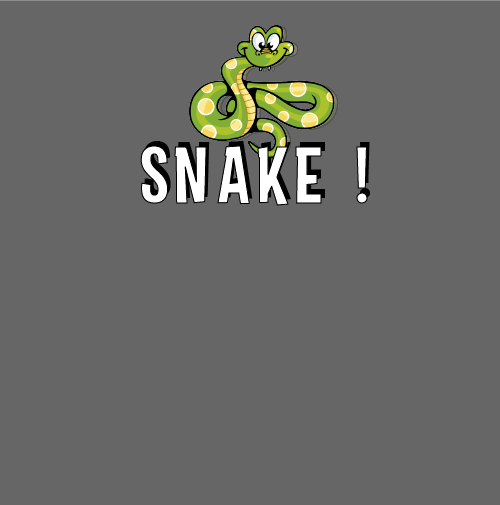
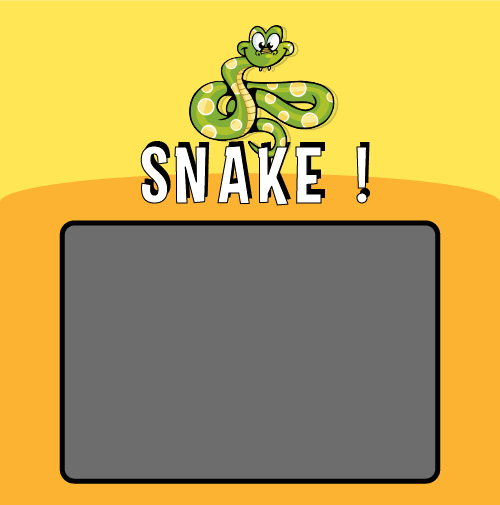
Penambahan fitur highscore 2 mode, debug 2 mode, dan perubahan UI menu

diff --git a/src/id/ac/its/KED/snakegame/Board.java b/src/id/ac/its/KED/snakegame/Board.java
@@ -49,6 +49,8 @@ public class Board extends JPanel implements ActionListener {
     private final int y[] = new int[ALL_DOTS];
     private final int obsX[] = new int[20];
     private final int obsY[] = new int[20];
+    private final int obsXP[] = new int[182];
+    private final int obsYP[] = new int[182];
 
     private int dots;
     private int apple_x;
@@ -79,6 +81,9 @@ public class Board extends JPanel implements ActionListener {
 
     private Menu menu;
 
+    private NormalHs normalhs;
+    private TimeHs timehs;
+    
     public Board() {
 
         initBoard();
@@ -98,6 +103,9 @@ public class Board extends JPanel implements ActionListener {
 
         menu = new Menu();
 
+        normalhs = new NormalHs();
+        timehs = new TimeHs();
+        
         initGame();
     }
 
@@ -154,9 +162,33 @@ public class Board extends JPanel implements ActionListener {
                 y[z] = 80;
             }
 
-            for (int i = 0; i < 20; i++) {
-                obsX[i] = 0;
-                obsY[i] = 0;
+            if (typeG == 1)
+            {
+            	for (int i = 0; i < 20; i++) {
+                    obsX[i] = 0;
+                    obsY[i] = 0;
+                }
+            }
+            else if (typeG == 2)
+            {
+            	obsXP[0] = 0;
+                obsYP[0] = 70;
+            	for (int i = 1; i < 43; i++) {
+                    obsXP[i] = 0;
+                    obsYP[i] = obsYP[i - 1] + 10;
+                }
+            	for (int i = 43; i < 92; i++) {
+                    obsXP[i] = obsXP[i - 1] + 10;
+                    obsYP[i] = 70;
+                }
+            	for (int i = 92; i < 134; i++) {
+                    obsXP[i] = obsXP[i - 1];
+                    obsYP[i] = obsYP[i - 1] + 10;
+                }
+            	for (int i = 134; i < 182; i++) {
+                    obsXP[i] = obsXP[i - 1] - 10;
+                    obsYP[i] = obsYP[i - 1];
+                }
             }
 
             locateApple();
@@ -234,7 +266,10 @@ public class Board extends JPanel implements ActionListener {
                     }
 
                     // --> Bagian untuk syntax obstacles
-
+                    for (int a = 0; a < 182; a++) {
+                        g.drawImage(obstacle, obsXP[a], obsYP[a], this);
+                    }
+                    
                     for (int z = 0; z < dots; z++) {
                         if (z == 0) {
 
@@ -250,7 +285,11 @@ public class Board extends JPanel implements ActionListener {
 
             } else {
 
+            	timer.stop();					// Matikan Game Loop
                 gameOver(g);
+                     
+//                System.out.print(inGame);
+//                System.out.print(inMenu);
             }
         }
     }
@@ -289,25 +328,26 @@ public class Board extends JPanel implements ActionListener {
 
         g.setFont(smallFont);
         g.setColor(new Color(96, 128, 255));
-        ts = "Time: " + timeCounter.reslt();
+        ts = "Time: " + timeCounter.result();
         g.drawString(ts, SCREEN_SIZE / 5 + 180, SCREEN_SIZE / 10);
     }
 
     private void gameOver(final Graphics g) { // Game Over UI
 
+    	final Font small = new Font("Helvetica", Font.BOLD, 20);
+    	final FontMetrics metr = getFontMetrics(small);
+    	g.setColor(Color.white);
+        g.setFont(small);
+    	
+    	final String retry = "Press Spacebar to retry";
+    	
         if (typeG == 1) {
 
             final String msg = "Game Over !";
             final String msg1 = "Score : " + score;
-            final String msg2 = "Press Spacebar to retry";
-            final Font small = new Font("Helvetica", Font.BOLD, 20);
-            final FontMetrics metr = getFontMetrics(small);
-
-            g.setColor(Color.white);
-            g.setFont(small);
+            
             g.drawString(msg, (B_WIDTH - metr.stringWidth(msg)) / 2, B_HEIGHT / 2 - 40);
-            g.drawString(msg2, (B_WIDTH - metr.stringWidth(msg)) / 2 - 50, (B_HEIGHT / 2) + 60);
-
+              
             if (score < 10) {
 
                 g.drawString(msg1, (B_WIDTH - metr.stringWidth(msg1)) / 2, B_HEIGHT / 2);
@@ -318,19 +358,19 @@ public class Board extends JPanel implements ActionListener {
 
                 g.drawString(msg1, (B_WIDTH - metr.stringWidth(msg1)) / 2 - 10, B_HEIGHT / 2);
             }
+            
+            g.drawString(retry, (B_WIDTH - metr.stringWidth(retry)) / 2 , (B_HEIGHT / 2) + 50);
+            
+            normalhs.render(g);
         }
 
         else if (typeG == 2) {
 
             final String msg = "Game Over !";
-            final String msg1 = "Score : " + score + "    Time: " + timeCounter.reslt();
-            final Font small = new Font("Helvetica", Font.BOLD, 20);
-            final FontMetrics metr = getFontMetrics(small);
+            final String msg1 = "Score : " + score + "    Time: " + timeCounter.result();
 
-            g.setColor(Color.white);
-            g.setFont(small);
             g.drawString(msg, (B_WIDTH - metr.stringWidth(msg)) / 2, B_HEIGHT / 2);
-
+            
             if (score < 10) {
 
                 g.drawString(msg1, (B_WIDTH - metr.stringWidth(msg1)) / 2, B_HEIGHT / 2 + 40);
@@ -341,8 +381,11 @@ public class Board extends JPanel implements ActionListener {
 
                 g.drawString(msg1, (B_WIDTH - metr.stringWidth(msg1)) / 2 - 10, B_HEIGHT / 2 + 40);
             }
+            
+            g.drawString(retry, (B_WIDTH - metr.stringWidth(retry)) / 2 , (B_HEIGHT / 2) + 90);
+            
+            timehs.render(g);
         }
-
     }
 
     private void move() {
@@ -408,6 +451,26 @@ public class Board extends JPanel implements ActionListener {
 
                     onFire = false;
                 }
+                
+                if (score >= 1) {
+                    for (int i = 0; i < 20; i++) {
+                        locateObstacle();
+                        obsX[i] = obs_x;
+                        obsY[i] = obs_y;
+
+                        if (obsX[i] <= x[0] + 10 && obsX[i] >= x[0] - 10 && obsY[i] <= y[0] + 10 && obsY[i] >= y[0] - 10) {
+                            locateObstacle();
+                            obsX[i] = obs_x;
+                            obsY[i] = obs_y;
+                        }
+
+                        if (obsX[i] == apple_x && obsY[i] == apple_y) {
+                            locateObstacle();
+                            obsX[i] = obs_x;
+                            obsY[i] = obs_y;
+                        }
+                    }
+                }
             }
 
             else if (typeG == 2) {
@@ -424,37 +487,29 @@ public class Board extends JPanel implements ActionListener {
                     onFire = false;
                 }
             }
-
-            if (score >= 1) {
-                for (int i = 0; i < 20; i++) {
-                    locateObstacle();
-                    obsX[i] = obs_x;
-                    obsY[i] = obs_y;
-
-                    if (obsX[i] <= x[0] + 10 && obsX[i] >= x[0] - 10 && obsY[i] <= y[0] + 10 && obsY[i] >= y[0] - 10) {
-                        locateObstacle();
-                        obsX[i] = obs_x;
-                        obsY[i] = obs_y;
-                    }
-
-                    if (obsX[i] == apple_x && obsY[i] == apple_y) {
-                        locateObstacle();
-                        obsX[i] = obs_x;
-                        obsY[i] = obs_y;
-                    }
-                }
-            }
         }
     }
 
     private void checkObstacle() {
 
-        for (int i = 0; i < 20; i++) {
-            if ((x[0] == obsX[i]) && (y[0] == obsY[i])) {
+    	if (typeG == 1)
+    	{
+    		for (int i = 0; i < 20; i++) {
+                if ((x[0] == obsX[i]) && (y[0] == obsY[i])) {
 
-                inGame = false;
+                    inGame = false;
+                }
             }
-        }
+    	}
+    	else if (typeG == 2)
+    	{
+    		for (int i = 0; i < 182; i++) {
+                if ((x[0] == obsXP[i]) && (y[0] == obsYP[i])) {
+
+                    inGame = false;
+                }
+            }
+    	}
 
         if (!inGame) {
             timer.stop();
@@ -535,8 +590,9 @@ public class Board extends JPanel implements ActionListener {
 
                 if ((key == KeyEvent.VK_LEFT || key == KeyEvent.VK_A) && (!rightDirection)) {
 
-                    final ImageIcon iih = new ImageIcon("src/resources/images/lefthead.png");
+                	final ImageIcon iih = new ImageIcon("src/resources/images/lefthead.png");
                     head = iih.getImage();
+                    
                     leftDirection = true;
                     upDirection = false;
                     downDirection = false;
@@ -544,8 +600,9 @@ public class Board extends JPanel implements ActionListener {
 
                 if ((key == KeyEvent.VK_RIGHT || key == KeyEvent.VK_D) && (!leftDirection)) {
                 	
-                    final ImageIcon iih = new ImageIcon("src/resources/images/righthead.png");
+                	final ImageIcon iih = new ImageIcon("src/resources/images/righthead.png");
                     head = iih.getImage();
+                    
                     rightDirection = true;
                     upDirection = false;
                     downDirection = false;
@@ -553,8 +610,9 @@ public class Board extends JPanel implements ActionListener {
 
                 if ((key == KeyEvent.VK_UP || key == KeyEvent.VK_W) && (!downDirection)) {
                 	
-                    final ImageIcon iih = new ImageIcon("src/resources/images/uphead.png");
+                	final ImageIcon iih = new ImageIcon("src/resources/images/uphead.png");
                     head = iih.getImage();
+                    
                     upDirection = true;
                     rightDirection = false;
                     leftDirection = false;
@@ -562,8 +620,9 @@ public class Board extends JPanel implements ActionListener {
 
                 if ((key == KeyEvent.VK_DOWN || key == KeyEvent.VK_S) && (!upDirection)) {
                 	
-                    final ImageIcon iih = new ImageIcon("src/resources/images/downhead.png");
+                	final ImageIcon iih = new ImageIcon("src/resources/images/downhead.png");
                     head = iih.getImage();
+                    
                     downDirection = true;
                     rightDirection = false;
                     leftDirection = false;
@@ -572,10 +631,11 @@ public class Board extends JPanel implements ActionListener {
             else {
 
                 if (key == KeyEvent.VK_SPACE) {
-
+                	
                 	final ImageIcon iih = new ImageIcon("src/resources/images/righthead.png");
                     head = iih.getImage();
-                	inGame = true;
+                    
+                    inGame = true;
                     inMenu = false;
                     onFire = false;
                     upDirection = false;
@@ -598,11 +658,12 @@ public class Board extends JPanel implements ActionListener {
 
         @Override
         public void mousePressed(final MouseEvent e) {
+        	
             if (inMenu == true) {
                 final int mx = e.getX();
                 final int my = e.getY();
-                System.out.println(mx);
-                System.out.println(my);
+//                System.out.println(mx);
+//                System.out.println(my);
 
                 if (mx >= 110 && mx <= 380) {
                     if (my >= 240 && my <= 300) {

diff --git a/src/id/ac/its/KED/snakegame/TimeHs.java b/src/id/ac/its/KED/snakegame/TimeHs.java
@@ -1,0 +1,30 @@
+package id.ac.its.KED.snakegame;
+
+import java.awt.Graphics;
+import java.io.File;
+import java.io.FileNotFoundException;
+import java.util.Scanner;
+
+public class TimeHs {
+
+	File filetext = new File("src/resources/textfile/timeattack.txt");
+	private Scanner s;
+	private int posY = 380;
+	
+	public void render(Graphics g)
+	{
+		try {
+			s = new Scanner(filetext);
+		} catch (FileNotFoundException e) {
+			e.printStackTrace();
+		}
+		
+		g.drawString("Highscore :", 140, posY);
+		
+		while(s.hasNextLine())
+		{
+			g.drawString(s.nextLine(), 260, posY);
+			posY += 30;
+		}
+	}
+}

diff --git a/src/id/ac/its/KED/snakegame/NormalHs.java b/src/id/ac/its/KED/snakegame/NormalHs.java
@@ -1,0 +1,29 @@
+package id.ac.its.KED.snakegame;
+
+import java.awt.Graphics;
+import java.io.*;
+import java.util.Scanner; 
+
+public class NormalHs {
+	 
+	File filetext = new File("src/resources/textfile/normal.txt");
+	private Scanner s;
+	private int posY = 360;
+	
+	public void render(Graphics g)
+	{
+		try {
+			s = new Scanner(filetext);
+		} catch (FileNotFoundException e) {
+			e.printStackTrace();
+		}
+		
+		g.drawString("Highscore :", 130, posY);
+		
+		while(s.hasNextLine())
+		{
+			g.drawString(s.nextLine(), 250, posY);
+			posY += 30;
+		}
+	}
+}

diff --git a/src/id/ac/its/KED/snakegame/TimeCounter.java b/src/id/ac/its/KED/snakegame/TimeCounter.java
@@ -20,7 +20,7 @@ public class TimeCounter implements ActionListener {
         clock.start();
     }
 
-    public String reslt()
+    public String result()
     {
         return hours + ":" + min + ":" + sec;
     }
